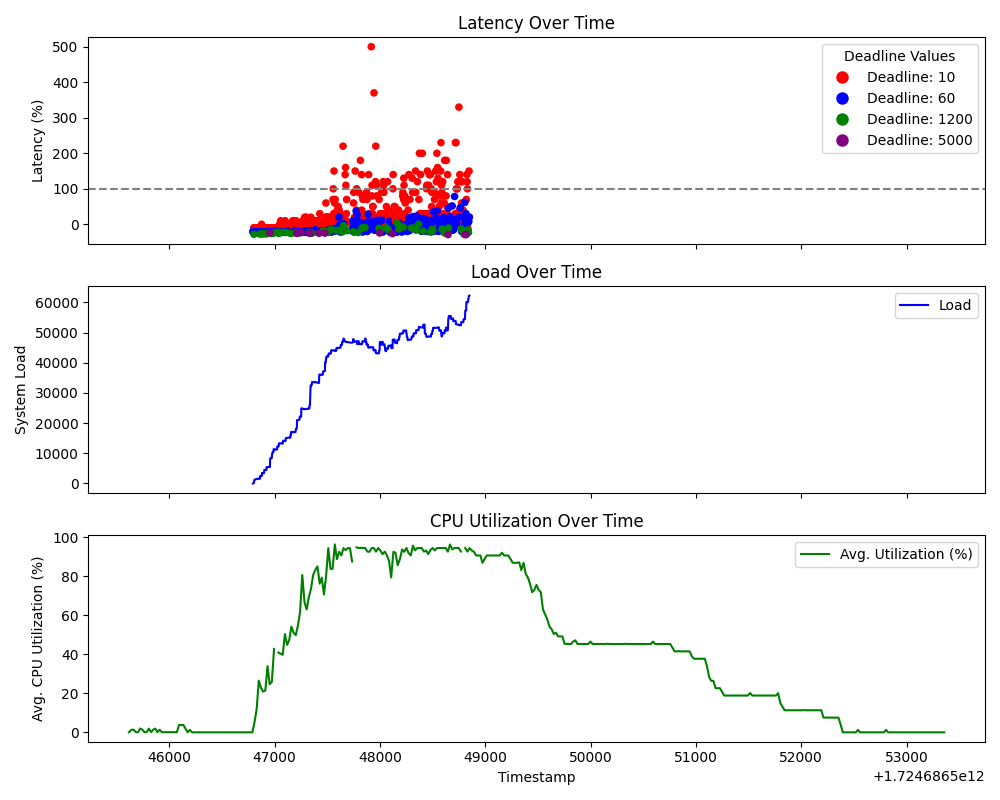
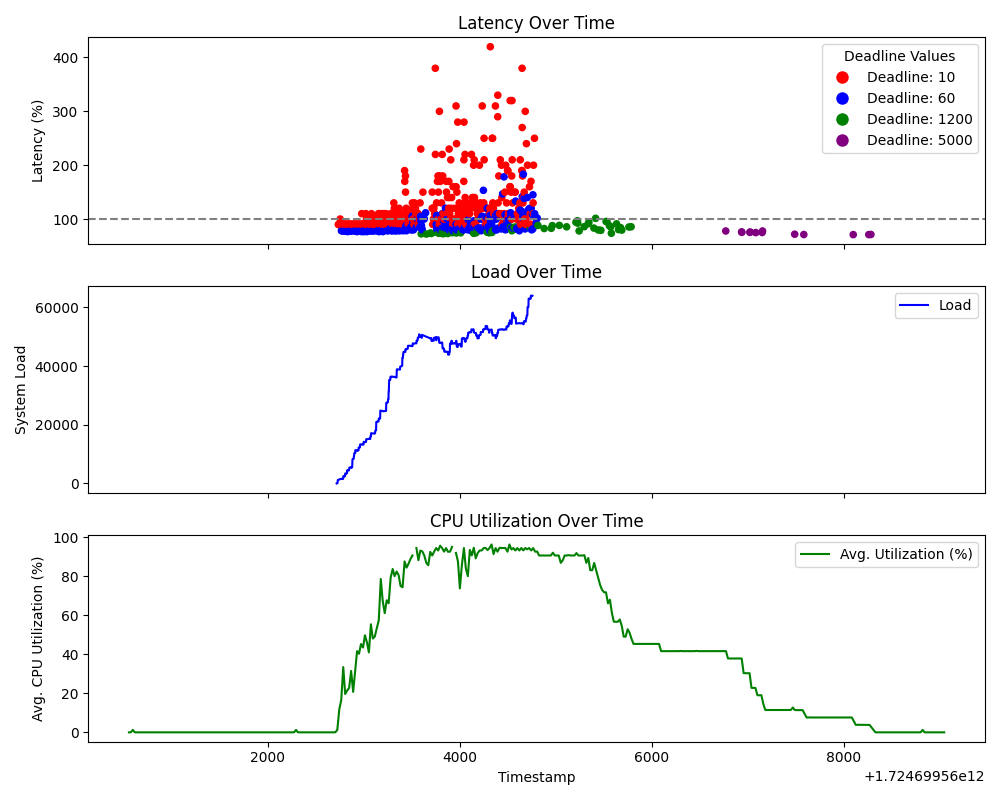
bug fix with latency calc in graph script

diff --git a/lb/lb.cc b/lb/lb.cc
@@ -62,11 +62,12 @@ WebsiteClient* LB::pickDispatcher(ProcType type) {
 
 void LB::runProc(WebsiteClient* to_use, ProcType type, string type_str) {
 
+    // TODO: have load added be the average expected compute until deadline
+    // (load should be basically number of CPUs)
     load_lock.lock();
     total_load += types_.at(type).compute_max;
     load_lock.unlock();
 
-    long long time_started = get_curr_time_ms();
     auto start_time = std::chrono::high_resolution_clock::now();
 
     RetVal reply = to_use->MakeCall(types_.at(type).mem->avg + types_.at(type).mem->std_dev, 
@@ -76,7 +77,7 @@ void LB::runProc(WebsiteClient* to_use, ProcType type, string type_str) {
     int ms_since_start = 1000 * since_start.count();
     
     std::ostringstream to_write;
-    to_write << time_started << " - latency: time passed: (inside: " << reply.timepassed() << ", outside: " 
+    to_write << get_curr_time_ms() << " - latency: time passed: (inside: " << reply.timepassed() << ", outside: " 
         << ms_since_start << "), deadline: " << types_.at(type).deadline  << endl;
     writeToOutFile(latency_file, to_write.str());
 

diff --git a/gen_graph.py b/gen_graph.py
@@ -31,7 +31,7 @@ with open('latency.txt', 'r') as f:
         timestamp = int(parts[0].split(" - latency: ")[0])
         outside_time = int(parts[1].split(": ")[1][:-1])
         deadline = int(parts[2].split(": ")[1])
-        latency_percentage = ((outside_time - deadline) / deadline) * 100
+        latency_percentage = (outside_time / deadline) * 100
         latency_data[timestamp] = latency_percentage
         deadline_data[timestamp] = deadline
 
